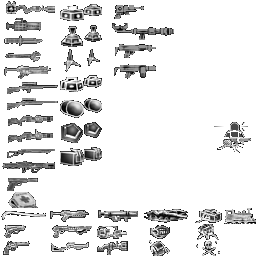
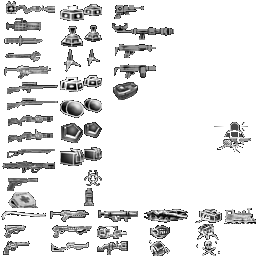
fixed weapons, added weapon summary

Changed region(s): [[0.3125, 0.6562, 0.4062, 0.8125], [0.4375, 0.3125, 0.5625, 0.4062]]

diff --git a/src/parserUtils.ts b/src/parserUtils.ts
@@ -1,7 +1,7 @@
 import PlayerList from "./playerList";
 import { Event, RoundParser } from "./parser";
 import Player from "./player";
-import { TeamColor, OutputStats, PlayerClass, TeamStatsComparison, TeamRole, TeamStats, OffenseTeamStats, DefenseTeamStats, OutputPlayer, PlayerOutputStatsRound, TeamsOutputStatsDetailed, GenericStat, ClassTime, TeamOutputStatsDetailed, StatDetails, FacetedStatDetails, EventDescriptor,} from "./constants";
+import { TeamColor, OutputStats, PlayerClass, TeamStatsComparison, TeamRole, TeamStats, OffenseTeamStats, DefenseTeamStats, OutputPlayer, PlayerOutputStatsRound, TeamsOutputStatsDetailed, GenericStat, ClassTime, TeamOutputStatsDetailed, StatDetails, FacetedStat, EventDescriptor, Weapon, FacetedStatSummary } from "./constants";
 import EventType from "./eventType";
 
 export type TeamComposition<TPlayer = Player> = { [team in TeamColor]?: TPlayer[]; };
@@ -250,6 +250,10 @@ export default class ParserUtils {
 
                 switch (event.eventType) {
                     case EventType.PlayerFraggedPlayer:
+                        // ignore "timer" and other non-weapon kills; usually followed by an infection kill
+                        if (event.withWeapon == Weapon.None)
+                            break;
+
                         // figure out if this was a team-kill/-death
                         if (this.playersOnSameTeam(teams, thisPlayer, otherPlayer)) {
                             this.addStat(thisPlayerStats, 'team_kill', event);
@@ -520,8 +524,6 @@ export default class ParserUtils {
                 const playerStats = stats[playerID];
                 for (const stat in playerStats) {
                     const statEvents = playerStats[stat];
-
-                    let outputStat: GenericStat;
                     switch (stat) {
                         /** classes */
                         case 'role':
@@ -705,11 +707,17 @@ export default class ParserUtils {
         const thisStat = this.ensureStat(playerStats, category, item, description);
         thisStat.value = events.length;
         thisStat.events = events;
-        thisStat.details = this.generateStatDetails(category, thisStat);
+
+        const facetedStat = this.generateStatDetails(category, thisStat);
+        if (facetedStat != null) {
+            thisStat.weapon_summary = facetedStat.weapon_summary;
+            thisStat.details = facetedStat.details;
+        }
+
         return thisStat;
     }
 
-    private static generateStatDetails(category: string, stat: GenericStat): FacetedStatDetails | undefined {
+    private static generateStatDetails(category: string, stat: GenericStat): FacetedStat | undefined {
         const events = stat.events;
         if (events == null)
             return;
@@ -718,15 +726,15 @@ export default class ParserUtils {
             case 'kills':
                 switch (stat.title) {
                     case 'kill':
-                        return this.genericStatDetails(stat.events!,
+                        return this.generateFacetedStats(stat.events!,
                             (e) => `Killed ${e.playerTo?.name} at ${this.getTime(e)}`,
                             true);
                     case 'teamkill':
-                        return this.genericStatDetails(stat.events!,
+                        return this.generateFacetedStats(stat.events!,
                             (e) => `Team killed ${e.playerTo?.name} at ${this.getTime(e)}`,
                             true);
                     case 'sg':
-                        return this.genericStatDetails(stat.events!,
+                        return this.generateFacetedStats(stat.events!,
                             (e) => `Killed ${e.playerTo?.name}'s sentry gun at ${this.getTime(e)}`,
                             true);
                     default:
@@ -735,23 +743,23 @@ export default class ParserUtils {
             case 'deaths':
                 switch (stat.title) {
                     case 'death':
-                        return this.genericStatDetails(stat.events!,
+                        return this.generateFacetedStats(stat.events!,
                             (e) => `Killed by ${e.playerFrom?.name} at ${this.getTime(e)}`);
                     case 'by_team':
-                        return this.genericStatDetails(stat.events!,
+                        return this.generateFacetedStats(stat.events!,
                             (e) => `Team-killed by ${e.playerFrom?.name} at ${this.getTime(e)}`);
                     case 'by_self':
-                        return this.genericStatDetails(stat.events!,
+                        return this.generateFacetedStats(stat.events!,
                             (e) => `Suicided at ${this.getTime(e)}`);
                 }
             case 'weaponStats':
                 switch (stat.title) {
                     case 'airshot':
-                        return this.genericStatDetails(stat.events!,
+                        return this.generateFacetedStats(stat.events!,
                             (e) => `Airshot ${e.playerTo?.name} at ${this.getTime(e)} (${e.data?.value} meters)`,
                             true);
                     case 'airshoted':
-                        return this.genericStatDetails(stat.events!,
+                        return this.generateFacetedStats(stat.events!,
                             (e) => `Airshoted by ${e.playerFrom?.name} at ${this.getTime(e)} (${e.data?.value} meters)`);
                     default:
                         console.log(`generateStatDetails: not implemented: weaponStats > ${stat.title}`);
@@ -761,8 +769,9 @@ export default class ParserUtils {
         }
     }
 
-    private static genericStatDetails(events: Event[], descriptor: EventDescriptor, isByPlayer?: boolean): FacetedStatDetails {
+    private static generateFacetedStats(events: Event[], descriptor: EventDescriptor, isByPlayer?: boolean): FacetedStat {
         const facetedDetails = {};
+        const facetedWeaponCounts: { [key in Weapon]?: number } = {};
         const allDetails = events.map(e => (<StatDetails>{
             description: descriptor(e),
             player: isByPlayer ? e.playerTo : e.playerFrom,
@@ -770,14 +779,29 @@ export default class ParserUtils {
         }));
 
         for (const detail of allDetails) {
+            // per-player
             const otherPlayer = detail.player?.name || "default";
             if (!facetedDetails[otherPlayer])
                 facetedDetails[otherPlayer] = [];
 
             facetedDetails[otherPlayer].push(detail);
+
+            // per-weapon
+            const weapon = detail.weapon || 0;
+            if (!facetedWeaponCounts[weapon])
+                facetedWeaponCounts[weapon] = 0;
+
+            facetedWeaponCounts[weapon]!++;
         }
 
-        return facetedDetails;
+        // finalize per-weapon stats
+        const facetedWeapon: FacetedStatSummary = {};
+        for (const weapon_stat in facetedWeaponCounts) {
+            const weapon_count = facetedWeaponCounts[weapon_stat];
+            facetedWeapon[weapon_stat] = `${weapon_count} (${Math.round(weapon_count / events.length * 100)}%)`;
+        }
+
+        return { details: facetedDetails, weapon_summary: facetedWeapon };
     }
 
     private static getTime(e: Event): string {
@@ -982,8 +1006,6 @@ export default class ParserUtils {
         let lastTimestamp: Date | undefined;
         let lastClass: PlayerClass | undefined;
         for (const roleChangedEvent of roleChangedEvents) {
-            lastClass = roleChangedEvent.data!.class;
-
             // skip the initial role if no timestamp set
             if (lastTimestamp !== undefined && lastClass !== undefined) {
                 // calculate the time for the last class and add entry
@@ -996,6 +1018,7 @@ export default class ParserUtils {
                 });
             }
 
+            lastClass = roleChangedEvent.data!.class;
             lastTimestamp = roleChangedEvent.timestamp;
         }
 

diff --git a/parsedlogs/hamp2.css b/parsedlogs/hamp2.css
@@ -339,14 +339,26 @@ table tr.total {
 
 .stats-facets {
     display: grid;
-    grid-template-columns: max-content max-content auto;
+    grid-template-columns: auto auto auto;
     column-gap: 15px;
     row-gap: 5px;
+}
+
+.stats-faceted {
+    padding-top: 10px;
 }
 
 .facet-value {
     font-weight: 700;
     justify-self: end;
+}
+
+.facet-summary {
+    grid-column: 1 / span 3;
+    display: flex;
+    flex-wrap: wrap;
+    justify-content: center;
+    border-bottom: 1px solid rgba(200, 200, 200, 0.3);
 }
 
 /** weapon styles **/
@@ -361,7 +373,7 @@ table tr.total {
 .weapon-1 { background-position: -150px -224px; width: 24px; height: 16px; }
 .weapon-2 { background-position: -84px -2px; width: 24px; height: 16px;}
 .weapon-3 { background-position: -84px -74px; width: 24px; height: 16px; }
-.weapon-4 { background-position: -84px -112px; width: 24px; height: 16px; }
+.weapon-4 { background-position: -84px -122px; width: 24px; height: 16px; }
 .weapon-5 { background-position: -112px -64px; width: 48px; }
 .weapon-6 { background-position: -112px -42px; width: 48px; }
 .weapon-7 { background-position: 0px -208px; }
@@ -370,14 +382,14 @@ table tr.total {
 .weapon-10 { background-position: 0px -144px; }
 .weapon-11 { background-position: -48px -224px; width: 48px; }
 .weapon-12 { background-position: -96px -208px; width: 48px; }
-.weapon-13 { background-position: 0 -16px; }
+.weapon-13 { background-position: 0px -16px; width: 48px; }
 .weapon-14 { background-position: -112px -4px; width: 36px; }
 .weapon-15 { background-position: -208px -137px; width: 48px; }
-.weapon-16 { background-position: 0px 0px ;} /* TODO (dispenser) */
+.weapon-16 { background-position: -84px -188px; width: 14px; height: 18px; }
 .weapon-17 { background-position: -208px -137px; width: 48px; } /* same as 15 */
 .weapon-18 { background-position: 0px -112px; }
 .weapon-19 { background-position: 0px -128px; }
-.weapon-20 { background-position: 0px 0px; } /* TODO (detpack) */
+.weapon-20 { background-position: -112px -82px; height: 18px; width: 26px; }
 .weapon-21 { background-position: -112px -22px; height: 20px; }
 .weapon-22 { background-position: -84px -26px; width: 24px; }
 .weapon-23 { background-position: -84px -50px; width: 24px; }
@@ -386,7 +398,9 @@ table tr.total {
 .weapon-26 { background-position: -208px -121px; width: 48px; }
 .weapon-27 { background-position: 0px -80px; }
 .weapon-28 { background-position: 0px -96px; }
-.weapon-29, .weapon-30, .weapon-31, .weapon-32, .weapon-33 { background-position: -192px -240px; width: 36px; }
+.weapon-29 { background-position: -84px -170px; width: 18px; }
+.weapon-30, .weapon-31, .weapon-32, .weapon-33 { background-position: -192px -240px; width: 36px; }
+.weapon-34 { background-position: 0px -176px; }
 
 
 /** navbar styles */

diff --git a/src/html/template-summary-player.html b/src/html/template-summary-player.html
@@ -114,7 +114,15 @@
                         {{#each kills}}
                         <div class="stats-faceted">
                             <div class="stat-title pt-3 pb-1"><h4>{{description}}: {{value}}</h4></div>
-                            <div class="stats-facets">
+                            <div class="stats-facets py-3">
+                                <div class="facet-summary pb-2 mb-3">
+                                    {{#each weapon_summary}}
+                                    <div class="facet-weapon px-2">
+                                        <span class="weapon-icon weapon-{{@key}}"></span>
+                                        {{this}}
+                                    </div>
+                                    {{/each}}
+                                </div>
                                 {{#each details}}
                                 <div class="facet-name">{{@key}}</div>
                                 <div class="facet-value">{{this.length}}</div>
@@ -138,6 +146,14 @@
                         <div class="stats-faceted">
                             <div class="stat-title pt-3 pb-1"><h4>{{description}}: {{value}}</h4></div>
                             <div class="stats-facets">
+                                <div class="facet-summary pb-2 mb-3">
+                                    {{#each weapon_summary}}
+                                    <div class="facet-weapon px-2">
+                                        <span class="weapon-icon weapon-{{@key}}"></span>
+                                        {{this}}
+                                    </div>
+                                    {{/each}}
+                                </div>
                                 {{#each details}}
                                 <div class="facet-name">{{@key}}</div>
                                 <div class="facet-value">{{this.length}}</div>

diff --git a/src/constants.ts b/src/constants.ts
@@ -99,14 +99,16 @@ export interface PlayerStats {
     };
 }
 
-export interface GenericStat<T = string, ValueType = number> {
+export interface GenericStat<T = string, ValueType = number> extends FacetedStat {
     title: T;
     value: ValueType;
     description?: string;
     events?: Event[];
-    details?: FacetedStatDetails; // { "hamp": { by_weapon: "nade", description: "killed at 3:30" }, "killed at 3:40" }
 }
 
+export interface FacetedStat { weapon_summary?: FacetedStatSummary, details?: FacetedStatDetails };
+
+export type FacetedStatSummary = { [key in Weapon]?: string }; // { "1": "5 (65%)"" }
 export type FacetedStatDetails = { [key: string]: StatDetails[] };
 export type EventDescriptor = (ev: Event) => string;
 
@@ -187,9 +189,6 @@ export enum Weapon {
     SentryGun,
     BuildingDispenser,
     BuildingSentryGun,
-    BuildingTeleporter,
-    BuildingTeleporterEntrance,
-    BuildingTeleporterExit,
     GreenPipe,
     BluePipe,
     Detpack,
@@ -198,7 +197,6 @@ export enum Weapon {
     Caltrop,
     GasGrenade,
     Knife,
-    Tranquilizer,
     Headshot,
     SniperRifle,
     AutoRifle,
@@ -207,6 +205,10 @@ export enum Weapon {
     Train,
     Lasers,
     Pit,
+    Tranquilizer,
+    BuildingTeleporter,
+    BuildingTeleporterEntrance,
+    BuildingTeleporterExit,
 };
 
 export enum PlayerClass {

diff --git a/src/index.ts b/src/index.ts
@@ -49,7 +49,8 @@ else {
     else
         // logs = ['logs/L0102102.log', 'logs/L0102104.log'];
         // logs = ['logs/1619406938938-L0425095.log', 'logs/1619406938938-L0425099.log']
-        logs = ['logs/L0611116.log', 'logs/L0611122.log'];
+        // logs = ['logs/JXt9zAen.log', 'logs/GJWd8vi5.log'];
+        logs = ['logs/1629607551662-L0821092.log', 'logs/1629607551665-L0821093.log'];
 
     console.log(`parsing logs ${logs.join(" and ")} ...`);
 
